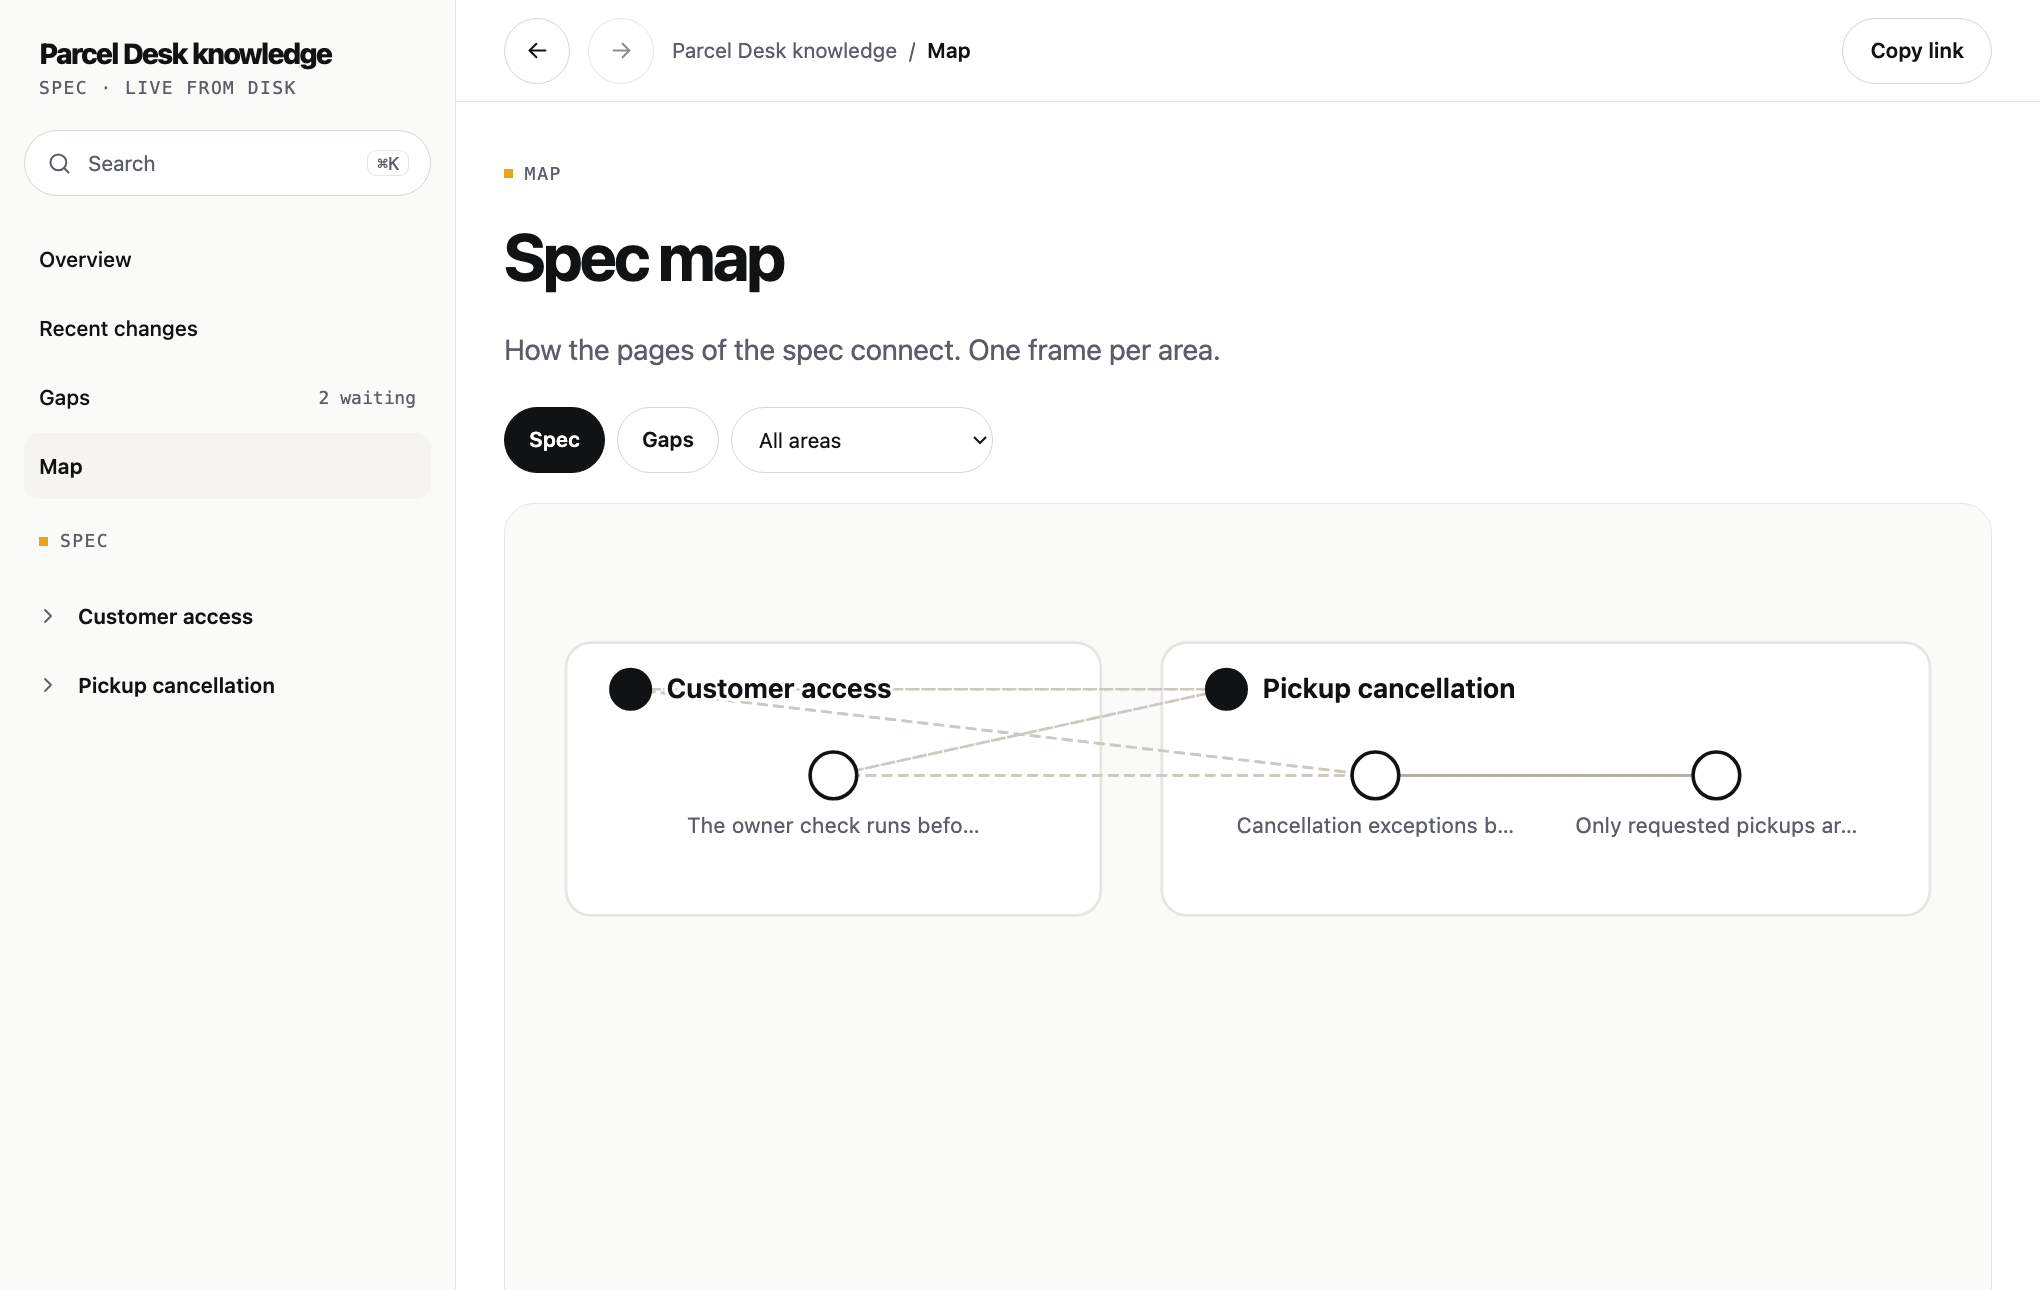
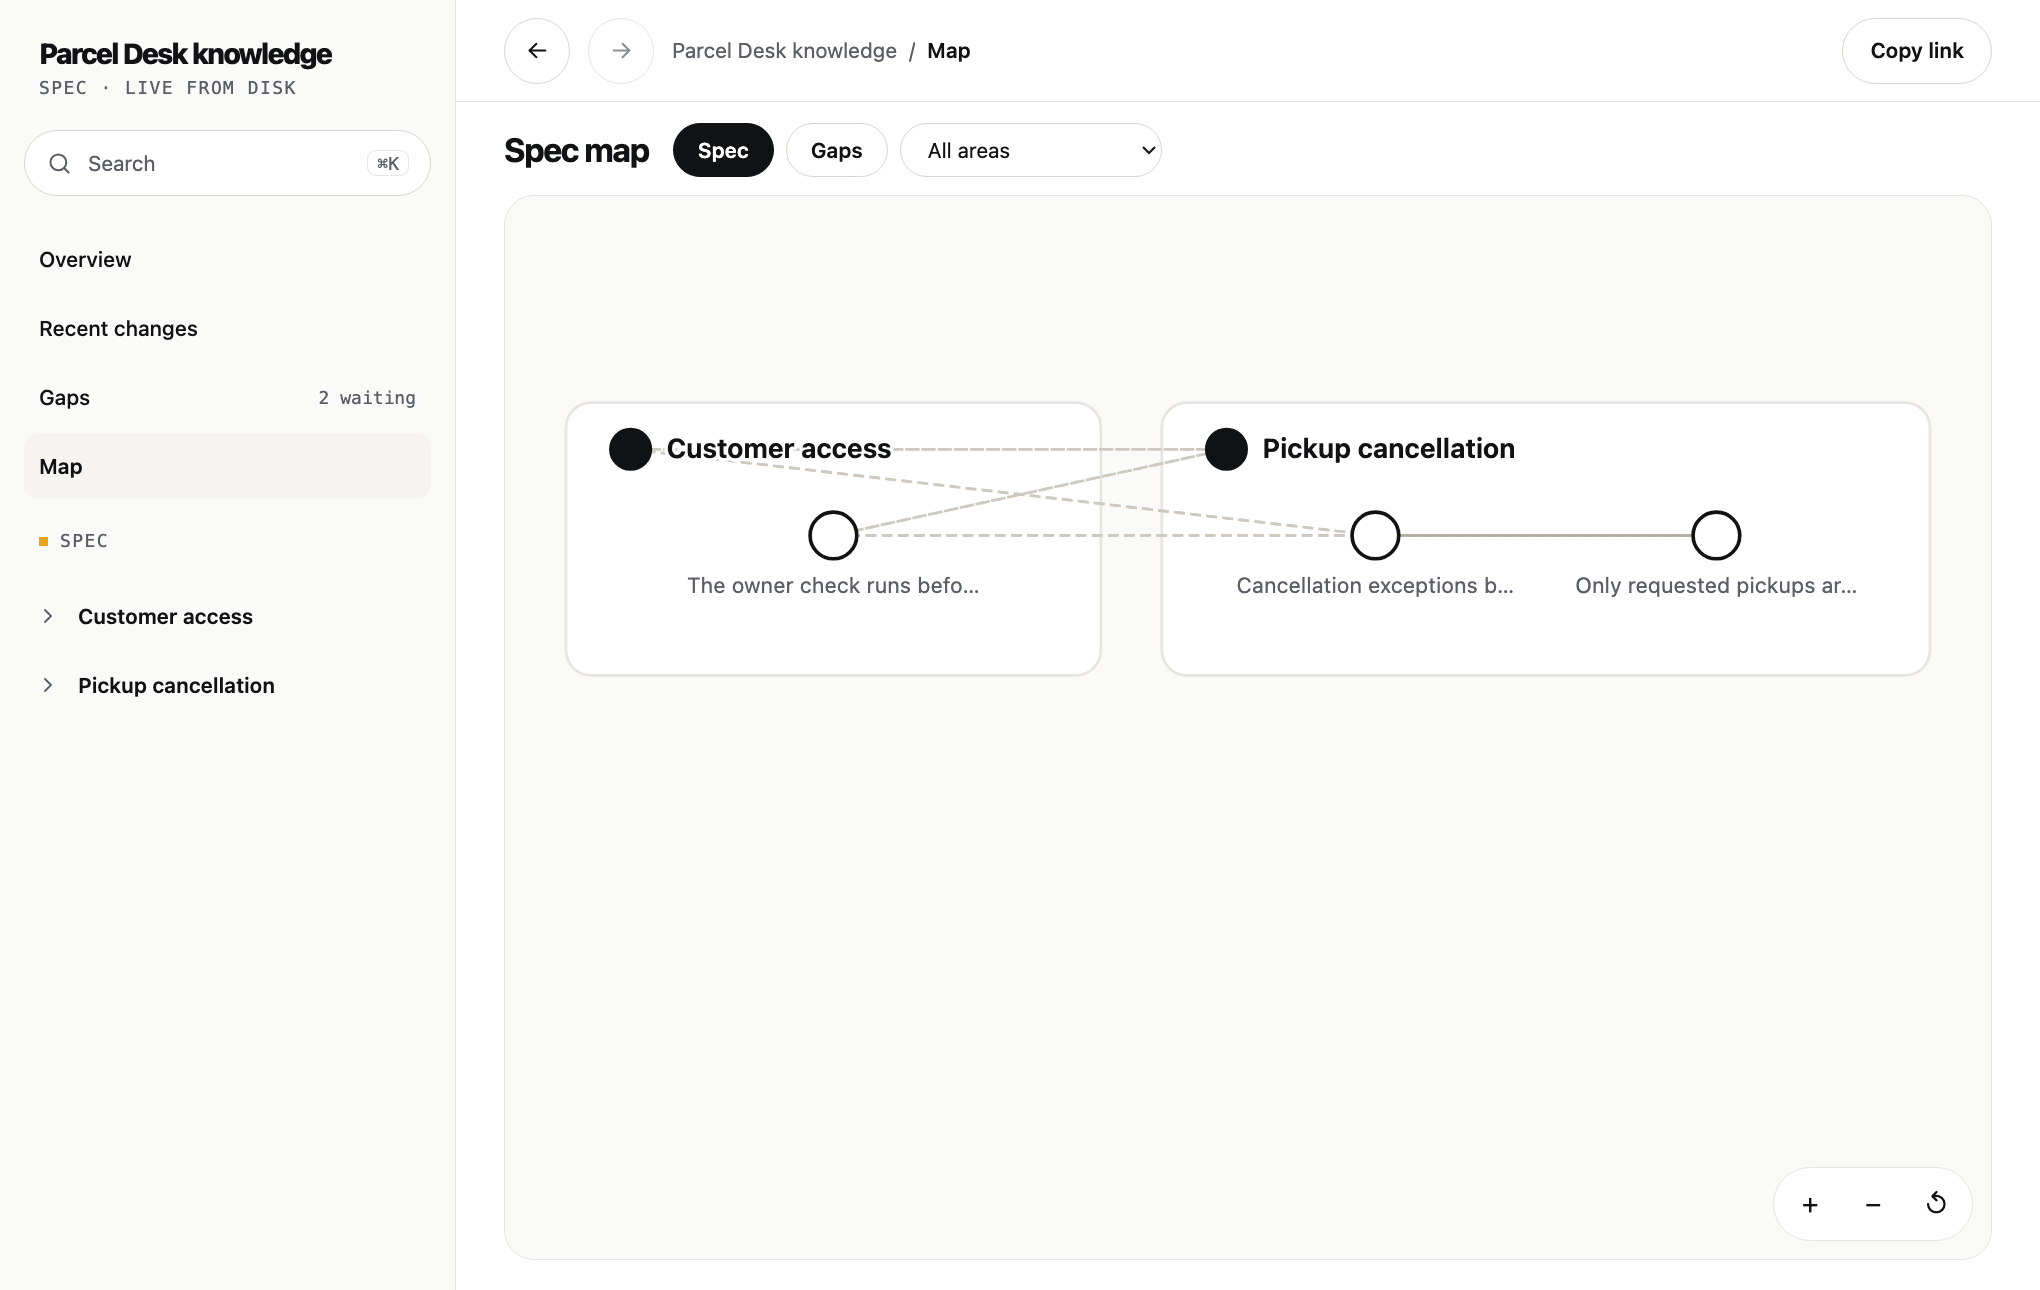
Let the map fill the window
The map view had a label, a title, a description and a hint line before
the map, and capped its first view, so a large map opened cropped below
the fold. Now the title and the Spec/Gaps and area controls share one row,
the map takes the rest of the window height, and it opens zoomed out to
show every node. The hint text is the map's accessible label instead of a
line under it. On a narrow screen the map keeps a fixed 70% of the height.

Version 0.4.3; the map screenshot is retaken.

diff --git a/skills/project-knowledge/assets/viewer.html b/skills/project-knowledge/assets/viewer.html
@@ -365,14 +365,31 @@
       }
 
       /* Page */
-      .view,
-      .mapview {
+      .view {
         padding: 40px 32px 80px;
       }
+      /* The map takes the rest of the window: one row of controls, then the map, no page scroll. */
       .mapview {
+        height: calc(100vh - 68px);
+        padding: 14px 32px 20px;
         display: flex;
         flex-direction: column;
-        gap: 20px;
+        gap: 12px;
+      }
+      .map-head {
+        display: flex;
+        flex-wrap: wrap;
+        align-items: center;
+        gap: 10px 16px;
+      }
+      .map-head h1 {
+        font: 700 22px/1.2 var(--display);
+        letter-spacing: -0.03em;
+        white-space: nowrap;
+      }
+      .map-head .pill,
+      .map-head select {
+        height: 36px;
       }
       .stack {
         display: flex;
@@ -961,8 +978,8 @@
       /* Map */
       .graph-wrap {
         position: relative;
-        height: min(72vh, 760px);
-        min-height: 420px;
+        flex: 1;
+        min-height: 320px;
         border: 1px solid var(--line);
         border-radius: 20px;
         background: var(--raised);
@@ -1395,6 +1412,13 @@
           padding-left: 16px;
           padding-right: 16px;
         }
+        .mapview {
+          height: auto;
+        }
+        .graph-wrap {
+          flex: none;
+          height: 70vh;
+        }
         .topbar .btn {
           padding: 0 12px;
         }
@@ -1444,10 +1468,8 @@
         </div>
         <div class="view" id="view"></div>
         <section class="mapview" id="mapview" aria-labelledby="map-title" hidden>
-          <div class="stack">
-            <div class="eyebrow">Map</div>
-            <h1 class="title" id="map-title">Map</h1>
-            <p class="lead" id="map-desc"></p>
+          <div class="map-head">
+            <h1 id="map-title">Map</h1>
             <div class="pillrow" id="map-controls" role="group" aria-label="Map layer"></div>
           </div>
           <div class="graph-wrap">
@@ -1458,7 +1480,6 @@
               ><button type="button" id="reset" aria-label="Reset view">↺</button>
             </div>
           </div>
-          <p class="muted small" id="graph-hint"></p>
         </section>
       </main>
     </div>
@@ -2635,12 +2656,12 @@
         function viewMap() {
           const gaps = mode === "gap";
           $("#map-title").textContent = gaps ? "Gap map" : "Spec map";
-          $("#map-desc").textContent = gaps
-            ? "Gaps and their plans, with the spec pages they refer to. Gaps are questions, not facts about the code."
-            : "How the pages of the spec connect. One frame per area.";
-          $("#graph-hint").textContent = gaps
-            ? "Filled circles are gaps, squares are plans, dashed outlines are spec pages the gaps refer to. Drag to pan; select a node to open it."
-            : "Lines are links between pages, dashed when they cross areas. Drag to pan; select a node to open it.";
+          graph.setAttribute(
+            "aria-label",
+            gaps
+              ? "Map of gaps and their plans, with the spec pages they refer to, one frame per area. Every page is also in the tree."
+              : "Map of how the spec pages link, one frame per area. Every page is also in the tree.",
+          );
           const controls = $("#map-controls");
           controls.replaceChildren(
             ...pills("Map layer", [["spec", "Spec"], ["gap", "Gaps"]], mode, (m) => {
@@ -3341,8 +3362,8 @@
           initialBox = {
             x: 0,
             y: 0,
-            w: Math.min(1500, Math.max(700, maxW)),
-            h: Math.min(950, Math.max(430, y + rowH + GAP)),
+            w: Math.max(700, maxW),
+            h: Math.max(430, y + rowH + GAP),
           };
           if (!preserveView) box = { ...initialBox };
           applyBox();
